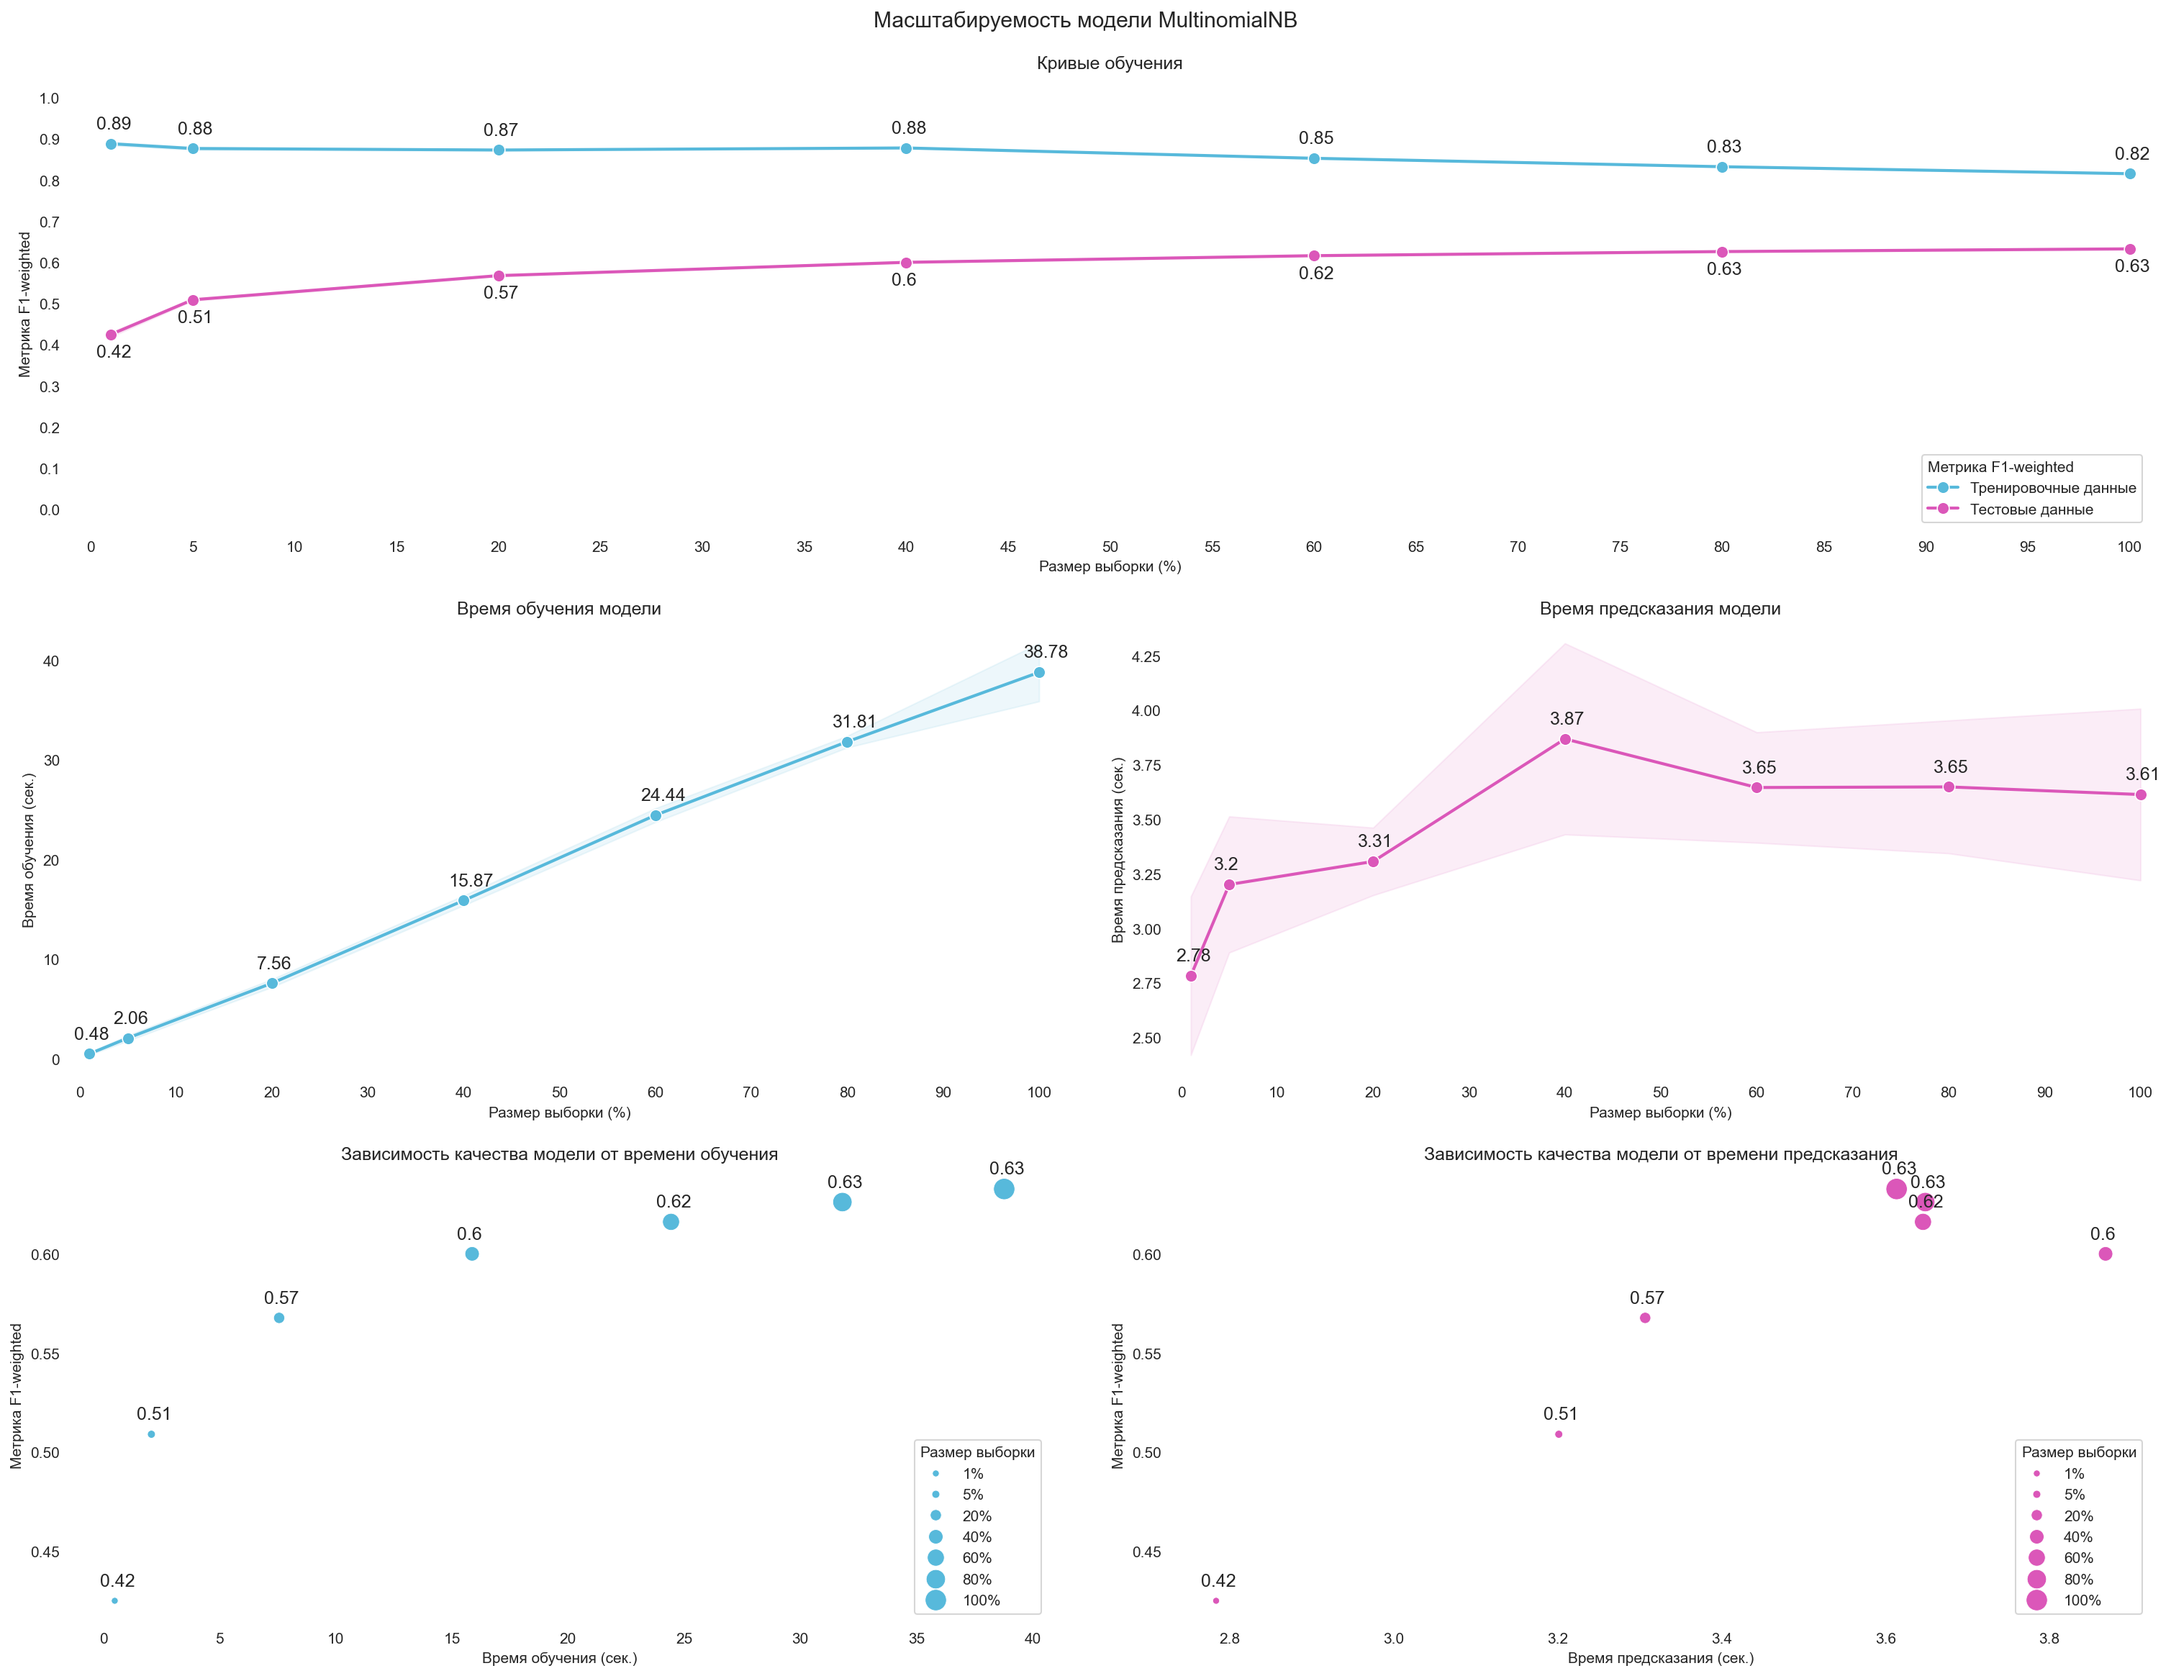
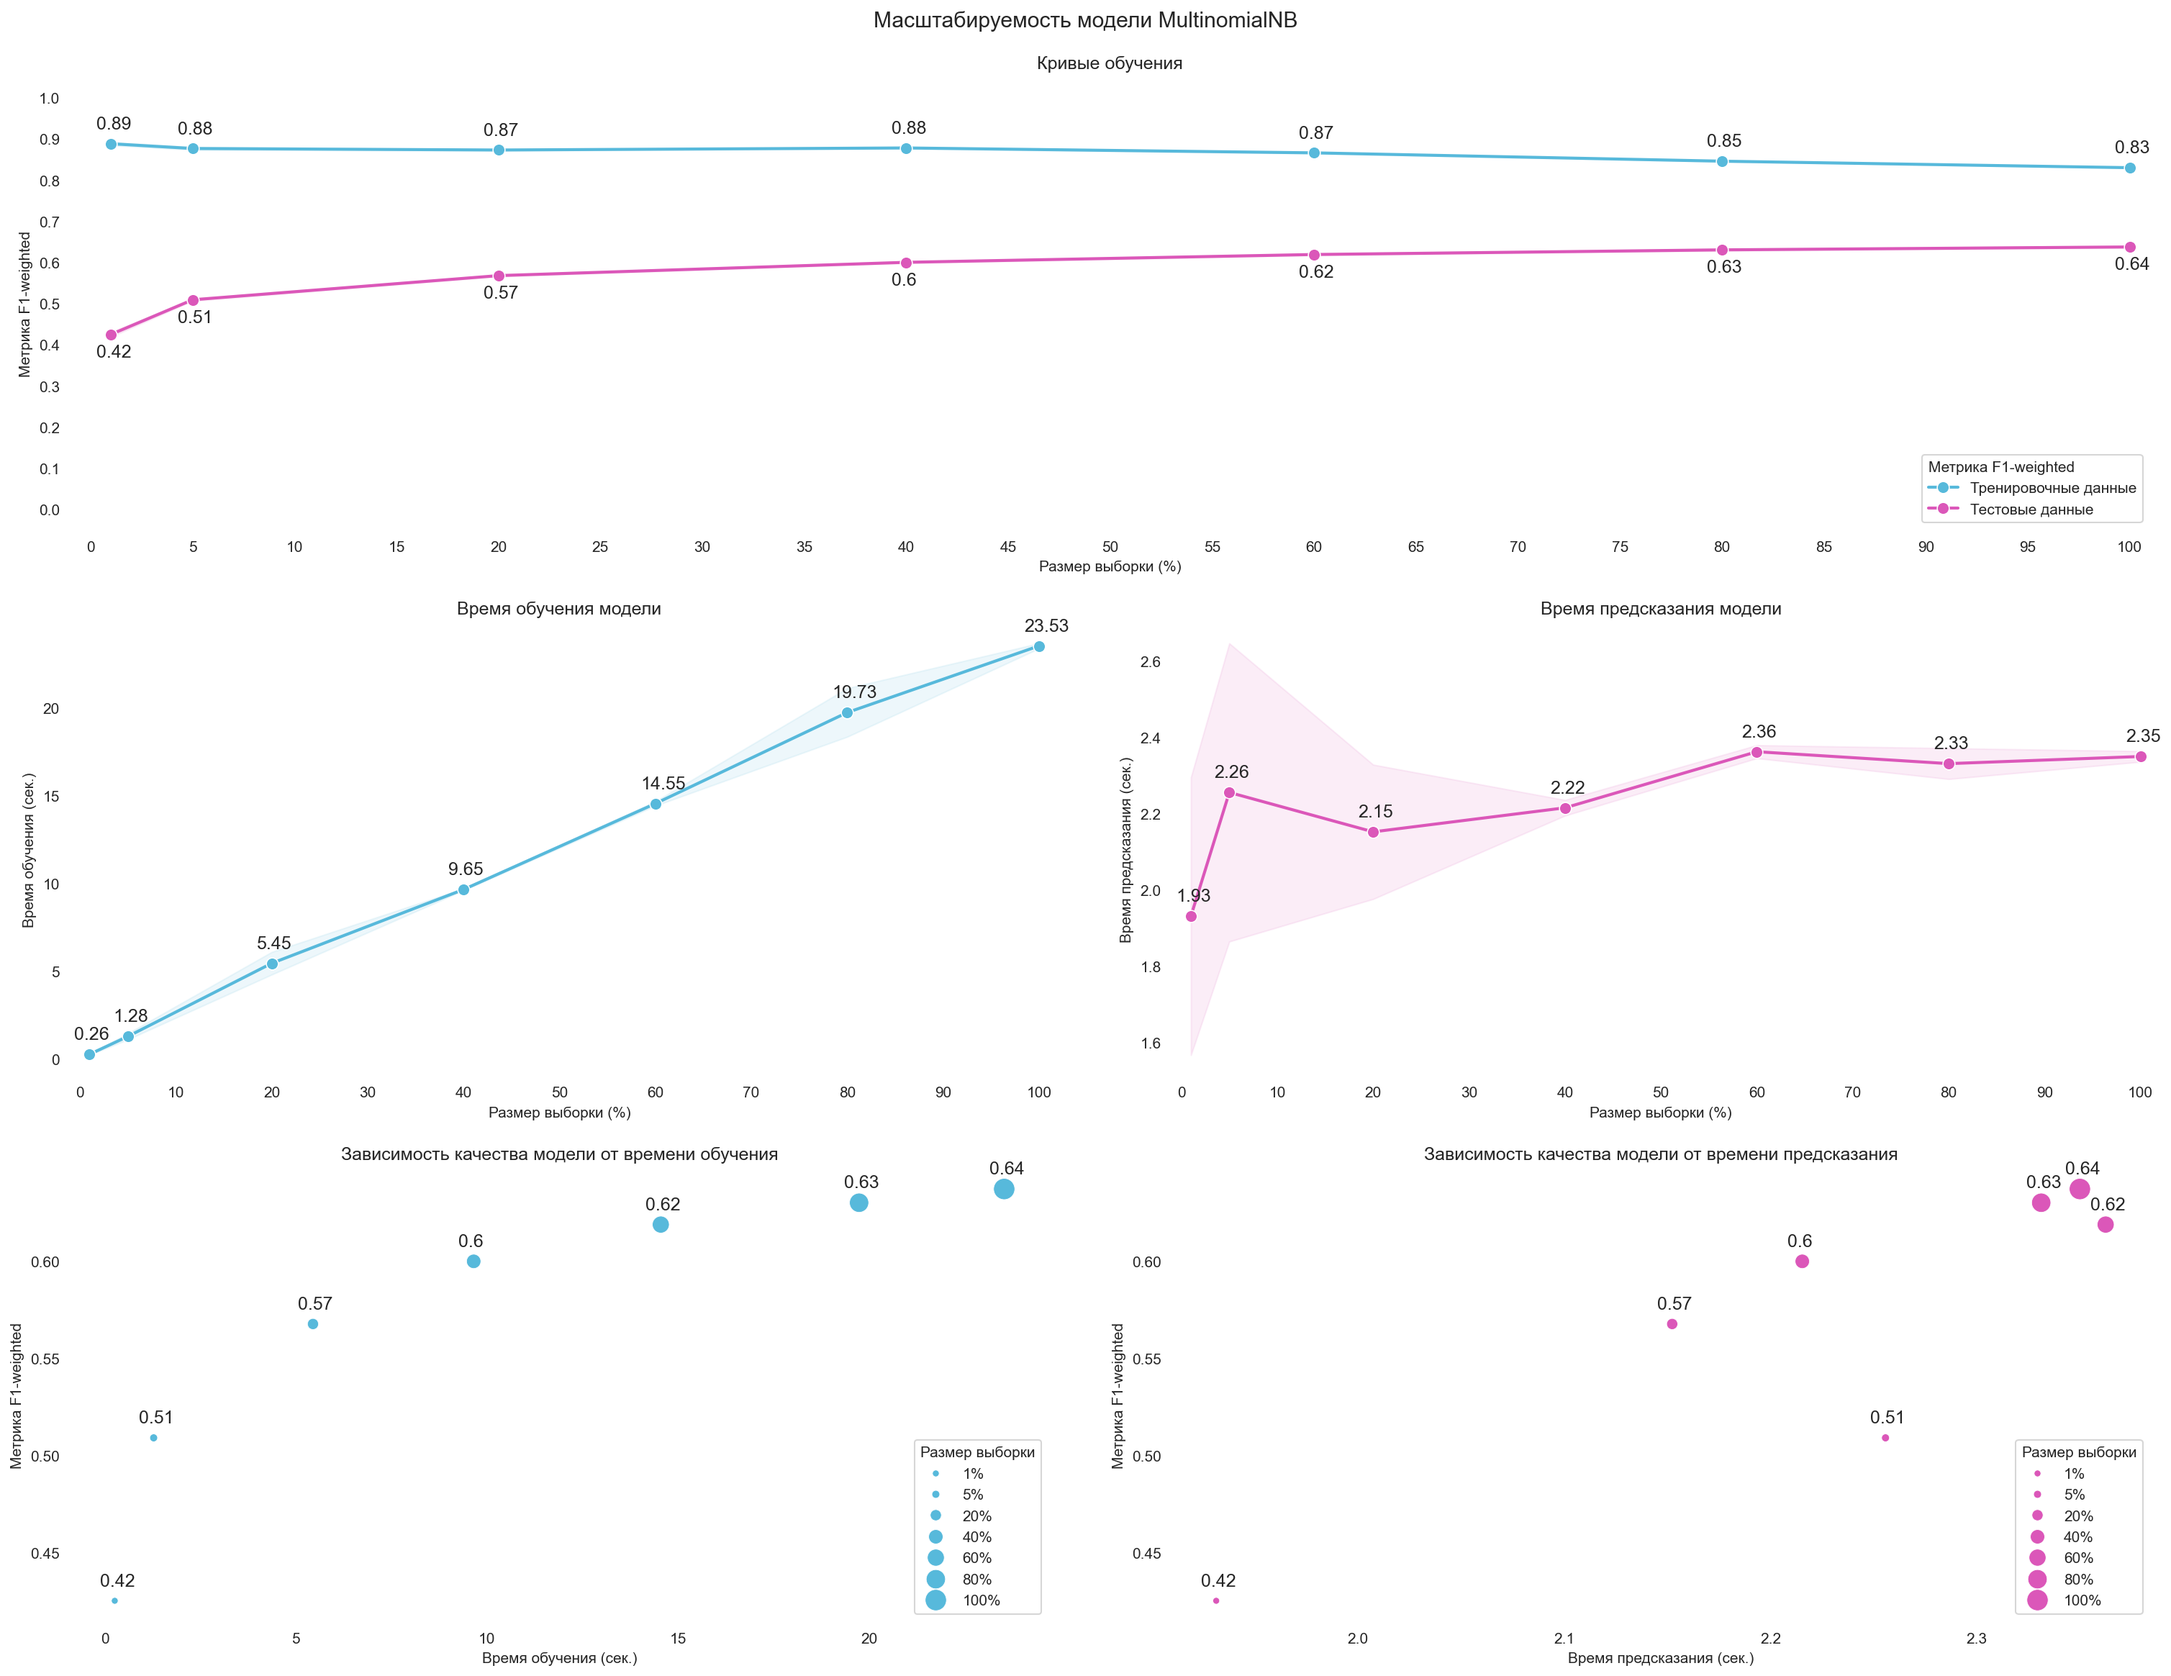
Update the documentation

diff --git a/README.md b/README.md
@@ -76,6 +76,7 @@
                     <li>Pandas</li>
                     <li>Seaborn</li>
                     <li>Scikit-learn</li>
+                    <li>Optuna</li>
                 </ul> 
             </td>
         </tr>
@@ -90,6 +91,7 @@
                     <li>FastAPI</li>
                     <li>Pandas</li>
                     <li>Uvicorn</li>
+                    <li>Docker</li>
                 </ul> 
             </td>
         </tr>
@@ -98,10 +100,10 @@
 
 ## Блокноты
 
-1. [exploring.ipynb](notebooks/exploring.ipynb) - предварительная обработка 
-и проведение разведочного анализа данных.
-2. [training.ipynb](notebooks/training.ipynb) - обучение модели, 
-выработка системы по оценки её эффективности.
+1. [exploring.ipynb](notebooks/exploring.ipynb) - предварительная обработка и проведение разведочного 
+анализа данных.
+2. [training.ipynb](notebooks/training.ipynb) - обучение модели, выработка системы по оценки её 
+эффективности.
 
 ## Набор данных
 
@@ -125,31 +127,34 @@
 - **мажоритарным** классом является класс **Adventure**; 
 - **миноритарным** классом является класс **Quiz/Trivia**.
 
-![words](resources/training/balance.png)
+![balance](resources/training/balance.png)
 
-Для каждого класса существует свой **уникальный** список 
-наиболее часто встречающихся слов в описаниях видеоигр.
+Для каждого класса существует свой **уникальный** список наиболее часто 
+встречающихся слов в описаниях видеоигр.
 
 ![words](resources/training/words.png)
 
 Наилучшей предсказательной способностью обладает модель **MultinomialNB**. 
 На тестовых данных удалось достичь метрики **F1-weighted** более **0.64**
 
-![words](resources/training/metrics.png)
+![metrics](resources/training/metrics.png)
 
 Кривые обучения показывают, что **присутствует** признак переобучения модели. 
 **Добавление новых данных возможно улучшит** предсказательную способность модели. 
 При добавлении новых данных **время обучения** возрастает **линейно**,
 **время предсказания** - **не меняется**.
 
-![words](resources/training/scalability.png)
+![scalability](resources/training/scalability.png)
 
 Модель имеет **плохую точность** прогнозирования вероятности принадлежности 
 объекта к тому или иному классу. Прогнозируемая вероятность распределена 
 **неравномерно**. Для более точного прогнозирования вероятности 
 **необходима калибровка** модели.
 
-![words](resources/training/calibration.png)
+![studies](resources/training/studies.png)
+
+Поиск оптимальных гиперпараметров осуществлялся параллельно в **4 исследованиях**
+с использованием алгоритма **TPE (древовидной оценки Парцена)** для **300 испытаний**.
 
 ## Благодарности
 

diff --git a/docs/training.md b/docs/training.md
@@ -55,7 +55,8 @@ def main():
         train(
             models=models,
             data=data,
-            n_trials=250
+            n_trials=300,
+            n_jobs=4
         )
 
 
@@ -210,7 +211,8 @@ def __call__(self, study: Study, trial: FrozenTrial):
 - `metrics.png` - предсказательная способность модели;
 - `scalability.png` - масштабируемость модели;
 - `calibration.png` - калиброванность модели;
-- `dummy.png` - предсказательная способность простой эмпирической модели.
+- `dummy.png` - предсказательная способность простой эмпирической модели;
+- `studies.png` - исследование пространства гиперпараметров.
 
 Примеры графических материалов, сформированных по результатам тренировки модели:
 
@@ -225,5 +227,7 @@ def __call__(self, study: Study, trial: FrozenTrial):
 ![calibration](../resources/training/calibration.png)
 
 ![dummy](../resources/training/dummy.png)
+
+![studies](../resources/training/studies.png)
 
 [К описанию проекта](../README.md)
